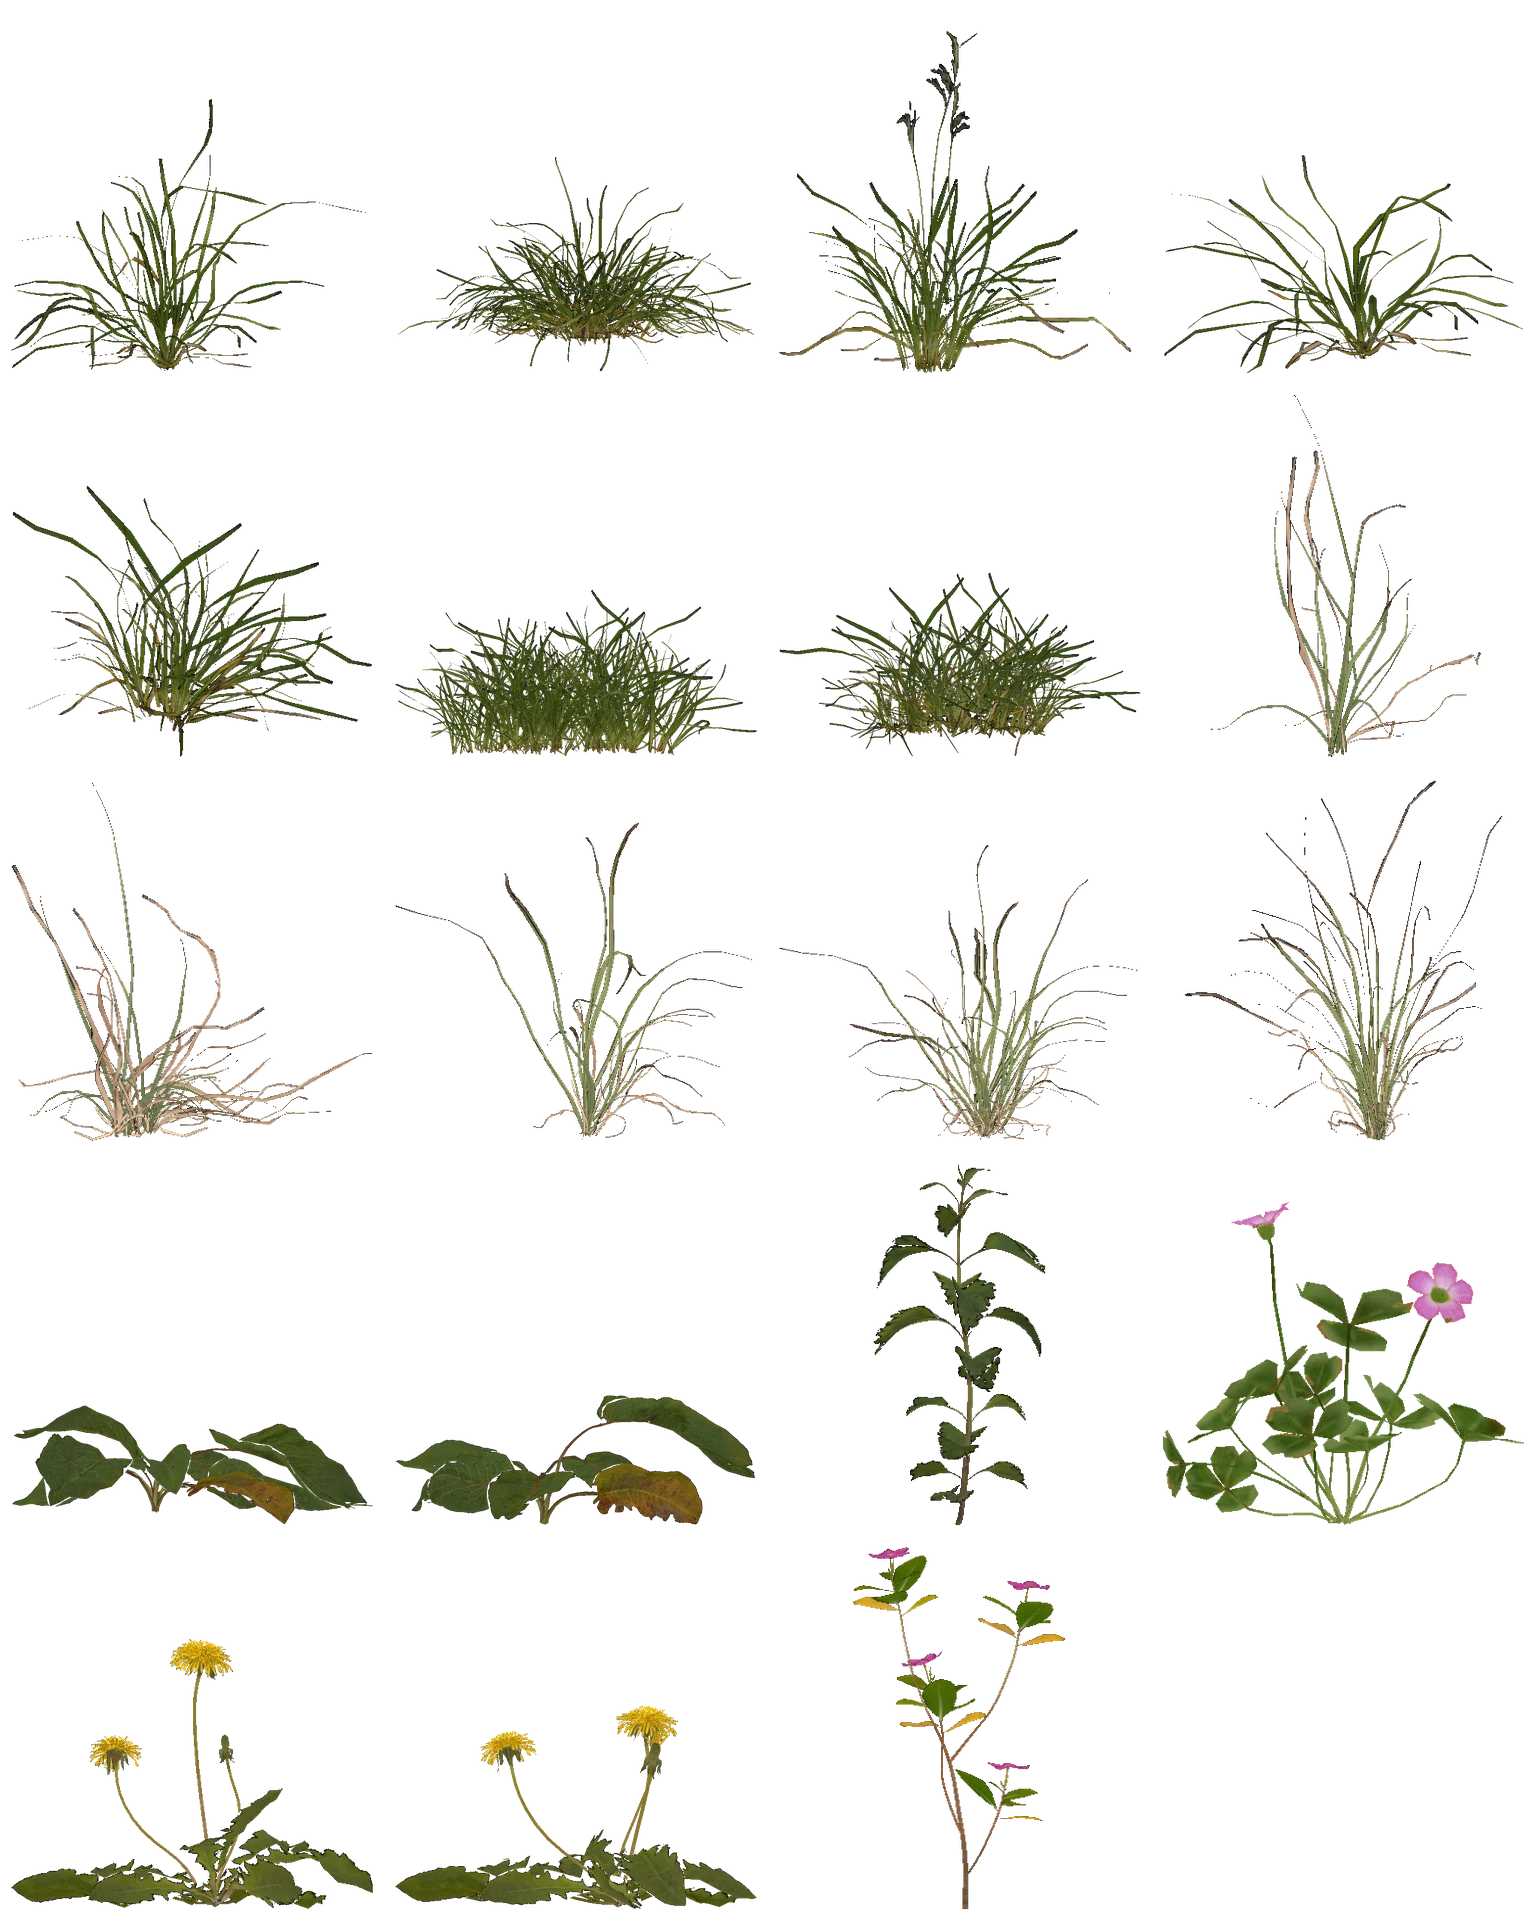
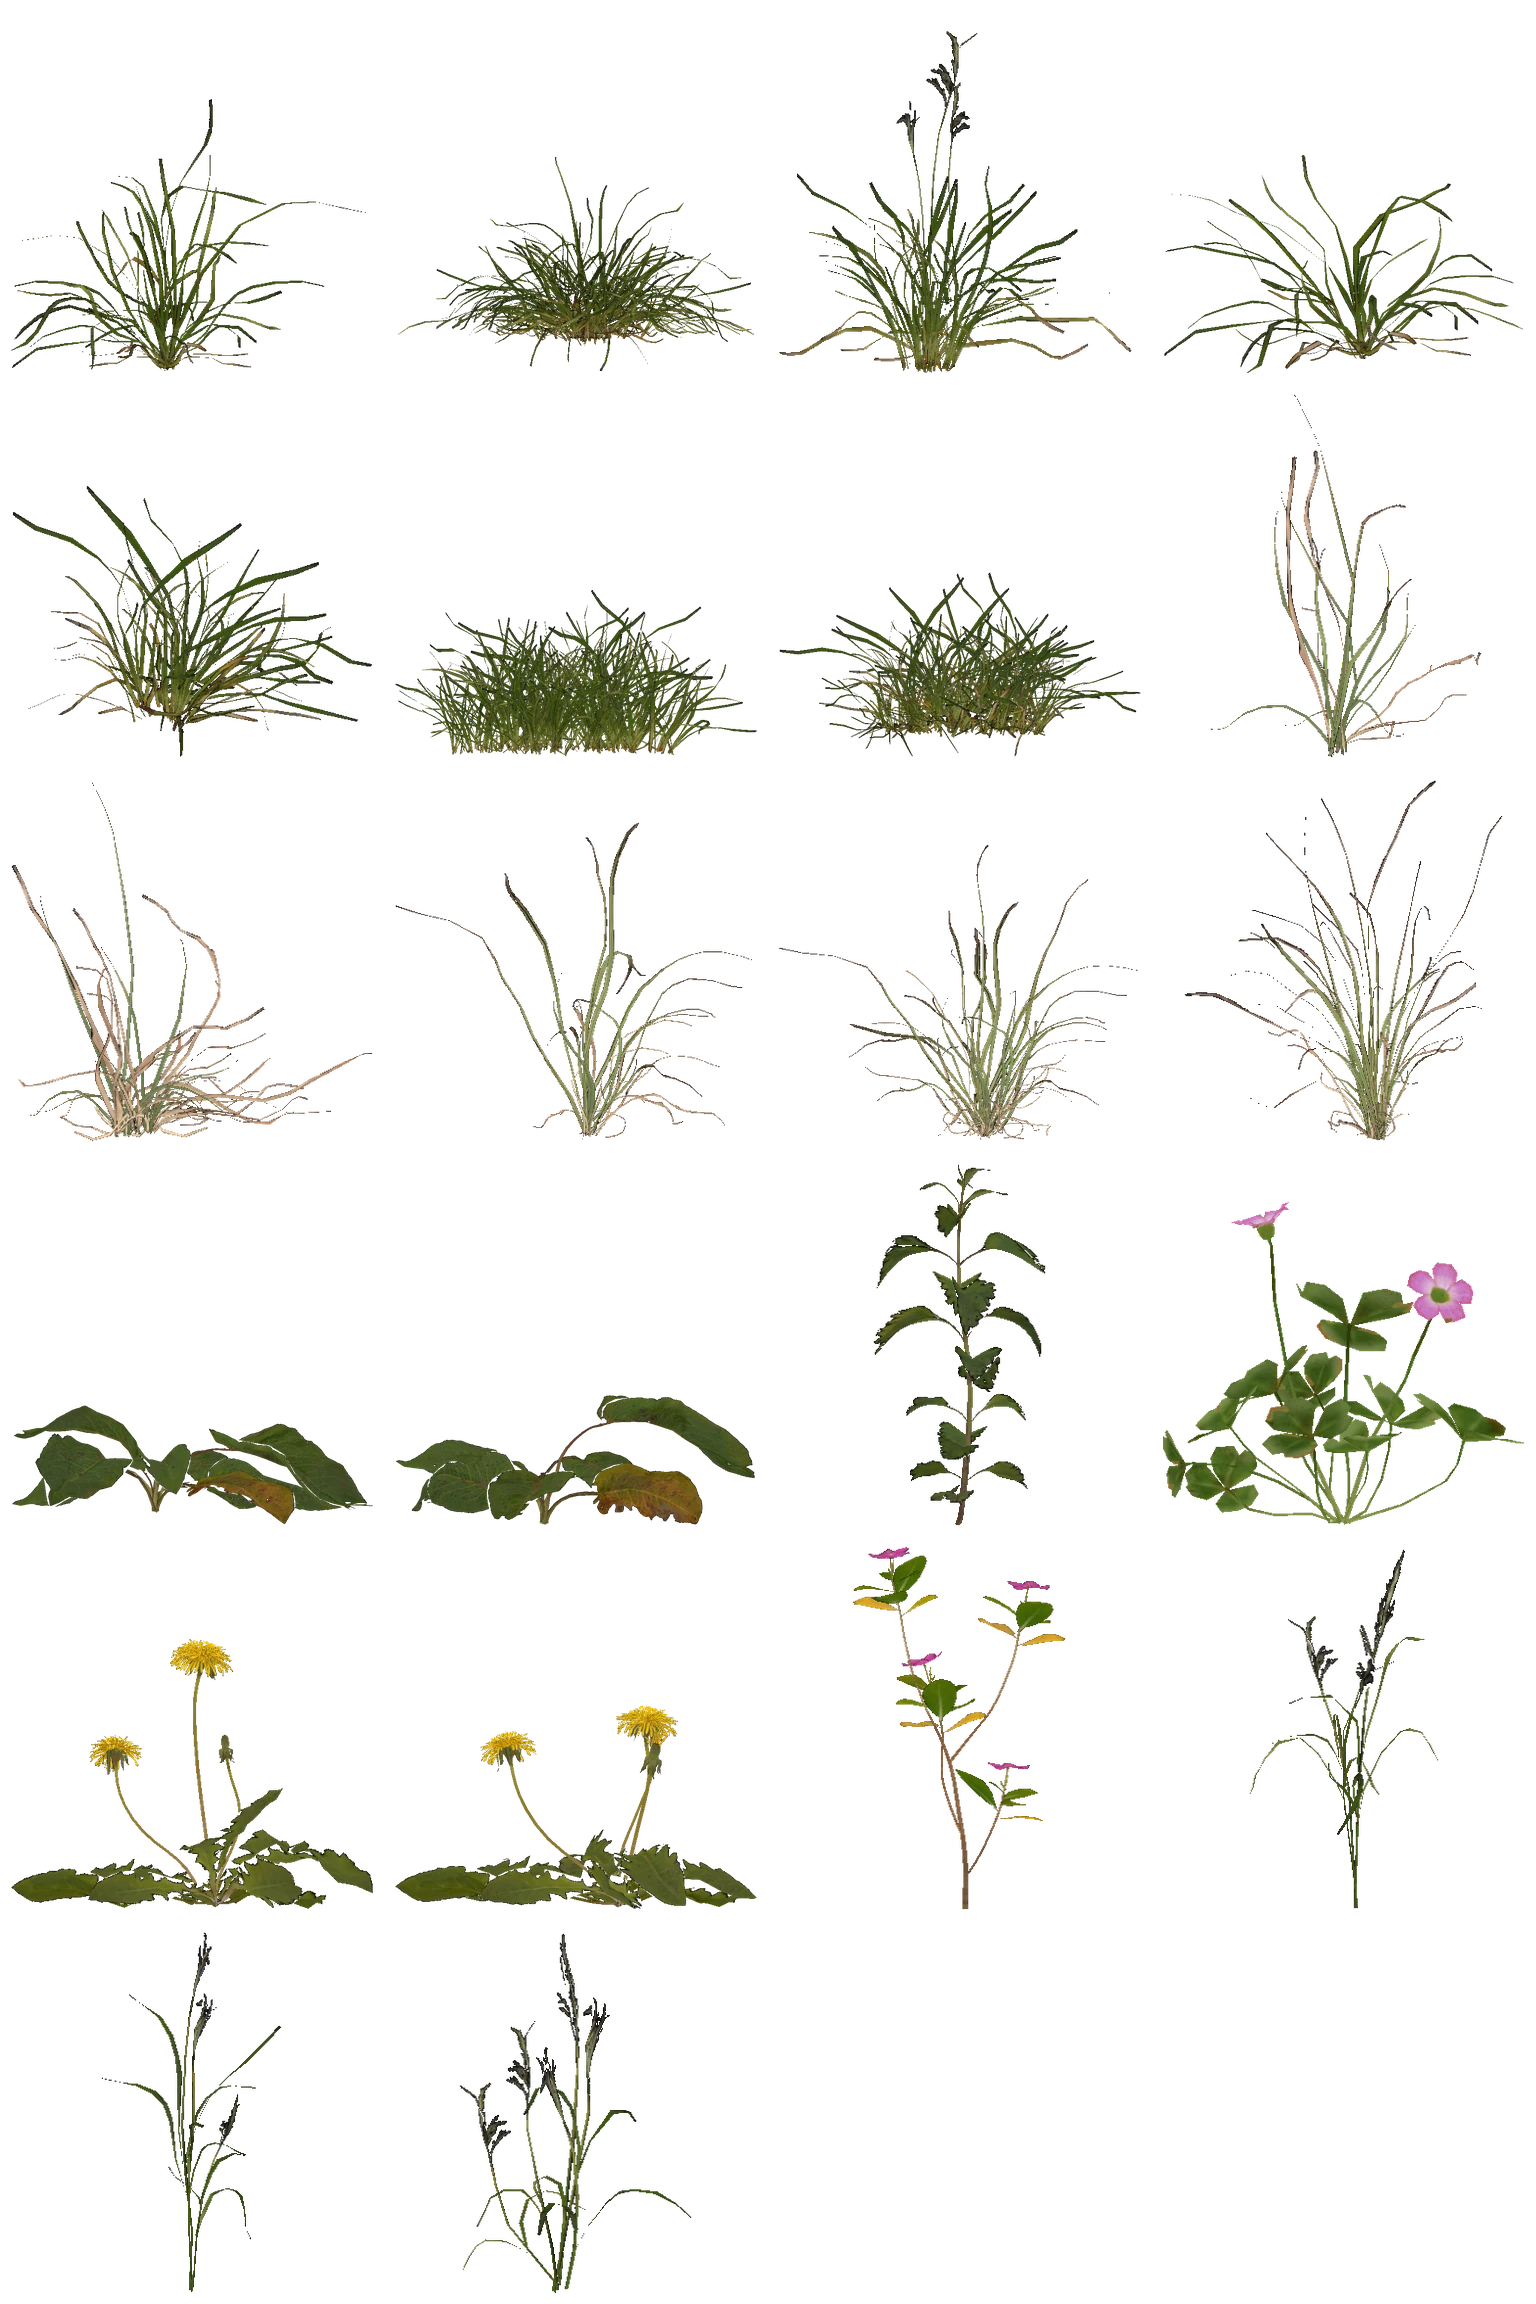
Gras-Atlas: drei Halme mit Samenständen (4 % der Zellen), 22 Kacheln (Zwischenstand, Ledger D277 nach Bildprüfung)
Claude-Session: https://claude.ai/code/session_019NVvDZ9khk56CaYgAKCb4K

diff --git a/src/world/grashorst.ts b/src/world/grashorst.ts
@@ -6,7 +6,7 @@
  * einzelner Büschel (0,12–0,36 m), als Blattkarten mit der Silhouette der Halme geschnitten. Roh sind sie
  * bis 25.000 Dreiecke je Büschel — zu schwer für 20–100 Büschel je m². Sie wurden deshalb einmal je Netz
  * seitlich mit orthografischer Kamera in ein Bild gerendert (`tools/grashorste.mjs`) und zu einem Atlas
- * gepackt: 19 Kacheln à 384² (7 grün, 5 trocken, 4 Kraut, 3 Blüten), Alpha aus der Silhouette, Farbe unter dem Rand nach aussen gefüllt (keine
+ * gepackt: 22 Kacheln à 384² (7 grün, 5 trocken, 4 Kraut, 3 Blüten, 3 Halme mit Samenständen), Alpha aus der Silhouette, Farbe unter dem Rand nach aussen gefüllt (keine
  * dunklen Säume). `public/material/gras-horste.json` hält je Kachel das Rechteck im Atlas und die Kantenlänge
  * der Kachel in Metern; Herkunft in `assets/HERKUNFT.md`.
  *
@@ -20,16 +20,17 @@ import { ladeRgba, leereKarte, setzeAlphaMips } from './alphamips.js';
 
 /** Alpha-Schwelle, die der Material-Alpha-Test benutzt (und die Mip-Kette erhält). */
 export const HORST_SCHWELLE = 0.3;
-/** Kacheln je Art im Atlas (Reihenfolge: grün, trocken, Kraut, Blume); wird beim Laden gegen die JSON geprüft. */
+/** Kacheln je Art im Atlas (Reihenfolge: grün, trocken, Kraut, Blume, Halm); wird beim Laden gegen die JSON geprüft. */
 export const HORST_GRUEN = 7;
 export const HORST_STROH = 5;
 export const HORST_KRAUT = 4;
 export const HORST_BLUME = 3;
-export const HORST_ZAHL = HORST_GRUEN + HORST_STROH + HORST_KRAUT + HORST_BLUME;
+export const HORST_HALM = 3;
+export const HORST_ZAHL = HORST_GRUEN + HORST_STROH + HORST_KRAUT + HORST_BLUME + HORST_HALM;
 const MIP_STUFEN = 6;
 
 export interface HorstKachel {
-  art: 'gruen' | 'stroh' | 'kraut' | 'blume';
+  art: 'gruen' | 'stroh' | 'kraut' | 'blume' | 'halm';
   /** Rechteck im Atlas in UV (x, y, Breite, Höhe), unten links. */
   rect: [number, number, number, number];
   /** Kantenlänge der quadratischen Kachel in Metern. */
@@ -55,8 +56,8 @@ export function ladeHorstAtlas(): Promise<HorstAtlas> {
       ladeRgba('/material/gras-horste.webp'),
     ]);
     const zahl = (a: string) => daten.kacheln.filter((k) => k.art === a).length;
-    if (zahl('gruen') !== HORST_GRUEN || zahl('stroh') !== HORST_STROH || zahl('kraut') !== HORST_KRAUT || zahl('blume') !== HORST_BLUME)
-      console.warn(`[grashorst] Atlas hat ${zahl('gruen')}/${zahl('stroh')}/${zahl('kraut')}/${zahl('blume')} Kacheln, erwartet ${HORST_GRUEN}/${HORST_STROH}/${HORST_KRAUT}/${HORST_BLUME}`);
+    if (zahl('gruen') !== HORST_GRUEN || zahl('stroh') !== HORST_STROH || zahl('kraut') !== HORST_KRAUT || zahl('blume') !== HORST_BLUME || zahl('halm') !== HORST_HALM)
+      console.warn(`[grashorst] Atlas hat ${zahl('gruen')}/${zahl('stroh')}/${zahl('kraut')}/${zahl('blume')}/${zahl('halm')} Kacheln, erwartet ${HORST_GRUEN}/${HORST_STROH}/${HORST_KRAUT}/${HORST_BLUME}/${HORST_HALM}`);
     const t = leereKarte();
     setzeAlphaMips(t, bild.data, bild.b, bild.h, { schwelle: HORST_SCHWELLE, stufen: MIP_STUFEN });
     t.colorSpace = THREE.SRGBColorSpace;

diff --git a/src/world/grasteppich.ts b/src/world/grasteppich.ts
@@ -20,7 +20,7 @@ import * as THREE from 'three';
 import { gesperrt } from './bauwerke.js';
 import { PALETTE } from './palette.js';
 import { GRAS_ECHT, GRAS_FEIN, GRAS_VIEL, PINSEL_AN } from './echt.js';
-import { ladeHorstAtlas, leereHorstTextur, HORST_BLUME, HORST_GRUEN, HORST_KRAUT, HORST_SCHWELLE, HORST_STROH, HORST_ZAHL } from './grashorst.js';
+import { ladeHorstAtlas, leereHorstTextur, HORST_BLUME, HORST_GRUEN, HORST_HALM, HORST_KRAUT, HORST_SCHWELLE, HORST_STROH, HORST_ZAHL } from './grashorst.js';
 import { PINSEL_BAND_GLSL } from './pinsel.js';
 import type { Biom } from './osm.js';
 import type { HoehenFeld } from './lod.js';
@@ -273,6 +273,7 @@ vec4 bilinear(sampler2D tex, vec2 welt) {
   int kachel = min(int(h6 * ${HORST_GRUEN}.0), ${HORST_GRUEN - 1});
   if (stroh > 0.5) kachel = ${HORST_GRUEN} + min(int(h6 * ${HORST_STROH}.0), ${HORST_STROH - 1});
   else if (kraut > 0.5) kachel = ${HORST_GRUEN + HORST_STROH} + min(int(h6 * ${HORST_KRAUT}.0), ${HORST_KRAUT - 1});
+  if (h7 >= 0.06 && h7 < 0.10) kachel = ${HORST_GRUEN + HORST_STROH + HORST_KRAUT + HORST_BLUME} + min(int(h6 * ${HORST_HALM}.0), ${HORST_HALM - 1});   // 4 %: Halme mit Samenständen
   if (h7 < 0.06) kachel = ${HORST_GRUEN + HORST_STROH + HORST_KRAUT} + min(int(h6 * ${HORST_BLUME}.0), ${HORST_BLUME - 1});
   bool strohKachel = kachel >= ${HORST_GRUEN} && kachel < ${HORST_GRUEN + HORST_STROH};
   bool blumeKachel = kachel >= ${HORST_GRUEN + HORST_STROH + HORST_KRAUT};` : ''}

diff --git a/tools/grashorste/pack.py b/tools/grashorste/pack.py
@@ -3,14 +3,14 @@ Grashorst-Atlas, Schritt 2 (D272): gewählte Kacheln aus `bake.mjs` zu `public/m
   python3 tools/grashorste/pack.py
 Alpha = nicht Magenta und nicht fast schwarz (Scan-Hintergrund); Farbe unter dem Rand nach aussen gefüllt
 (keine dunklen Säume); Kacheln 384² mit 4 px Rand, unten bündig (Wurzel), Mass je Kachel in Metern in
-`public/material/gras-horste.json`. Reihenfolge: 'gruen', 'stroh', 'kraut', 'blume' (`src/world/grashorst.ts`).
+`public/material/gras-horste.json`. Reihenfolge: 'gruen', 'stroh', 'kraut', 'blume', 'halm' (Halme mit Samenständen) (`src/world/grashorst.ts`).
 """
 import json
 import numpy as np
 from PIL import Image
 
 AUS = '.cache/grashorste/out'
-W, H, C, GUT = 1536, 1920, 384, 4
+W, H, C, GUT = 1536, 2304, 384, 4
 NUTZ = C - 2 * GUT
 WAHL = [('grass_medium_01', 0, 'gruen'), ('grass_medium_01', 1, 'gruen'), ('grass_medium_01', 2, 'gruen'),
         ('grass_medium_01', 6, 'gruen'), ('grass_medium_01', 7, 'gruen'), ('grass_medium_01', 9, 'gruen'),
@@ -19,7 +19,8 @@ WAHL = [('grass_medium_01', 0, 'gruen'), ('grass_medium_01', 1, 'gruen'), ('gras
         ('grass_medium_02', 3, 'stroh'), ('grass_medium_02', 4, 'stroh'),
         ('weed_plant_02', 0, 'kraut'), ('weed_plant_02', 1, 'kraut'), ('nettle_plant', 4, 'kraut'),
         ('shrub_sorrel_01', 4, 'kraut'),
-        ('dandelion_01', 0, 'blume'), ('dandelion_01', 1, 'blume'), ('periwinkle_plant', 0, 'blume')]
+        ('dandelion_01', 0, 'blume'), ('dandelion_01', 1, 'blume'), ('periwinkle_plant', 0, 'blume'),
+        ('grass_medium_01', 3, 'halm'), ('grass_medium_01', 4, 'halm'), ('grass_medium_01', 5, 'halm')]
 
 
 def fuelle(rgb, alpha, n=6):

diff --git a/assets/HERKUNFT.md b/assets/HERKUNFT.md
@@ -132,7 +132,7 @@ Herkunft trotzdem, damit niemand rätseln muss. Lizenz geprüft am 15.10.2026 au
 | wurzelstrang-farbe.webp, wurzelstrang-normal.webp, ../props/totholz_scan_wurzelstrang.glb | Wurzelstrang (D233), 213.939 → 2.400 Dreiecke | Jenelle van Heerden | CC0-1.0 | Poly Haven Modell `root_cluster_02` (Teil `_a`), Lizenz geprüft 17.10.2026 |
 | wurzel-einzel-farbe.webp, wurzel-einzel-normal.webp, ../props/totholz_scan_wurzel_einzel.glb | Einzelwurzel (D233), 61.027 → 1.799 Dreiecke | Jenelle van Heerden | CC0-1.0 | Poly Haven Modell `single_root`, Lizenz geprüft 17.10.2026 |
 | gras-farbe.webp, gras-normal.webp, ../props/gras_scan_a–f.glb | Grasbüschel (D234), Blattkarten mit Alpha, nicht reduziert, auf 0,18–0,85 m skaliert | Rico Cilliers | CC0-1.0 | Poly Haven Modell `grass_medium_02`, Lizenz geprüft 17.10.2026 |
-| gras-horste.webp, gras-horste.json | Foto-Büschel und -Kräuter für den Grasteppich (D272, `?gras=3`): 19 Kacheln à 384² (7 grün, 5 trocken, 4 Kraut, 3 Blüten), Alpha aus der Silhouette, Farbe unter dem Rand nach aussen gefüllt; je Kachel Rechteck und Kantenlänge in Metern in der JSON. Gerendert, nicht fotografiert: jedes Scan-Netz seitlich orthografisch (`tools/grashorste/bake.mjs`, `pack.py`) | Rob Tuytel (Foto), Rico Cilliers (Modell), Jenelle van Heerden und weitere laut Poly-Haven-Seite des jeweiligen Assets | CC0-1.0 | Poly Haven [`grass_medium_01`](https://polyhaven.com/a/grass_medium_01) (Kacheln 0, 1, 2, 6, 7, 9, 10), [`grass_medium_02`](https://polyhaven.com/a/grass_medium_02) (0–4), [`weed_plant_02`](https://polyhaven.com/a/weed_plant_02) (0, 1), [`nettle_plant`](https://polyhaven.com/a/nettle_plant) (4), [`shrub_sorrel_01`](https://polyhaven.com/a/shrub_sorrel_01) (4), [`dandelion_01`](https://polyhaven.com/a/dandelion_01) (0, 1), [`periwinkle_plant`](https://polyhaven.com/a/periwinkle_plant) (0); 2K-glTF, Lizenz geprüft 13.11.2026 (<https://polyhaven.com/license>, CC0). Autoren der vier neuen Assets: UNKLAR, nicht einzeln nachgesehen — CC0 verlangt keine Nennung |
+| gras-horste.webp, gras-horste.json | Foto-Büschel und -Kräuter für den Grasteppich (D272, `?gras=3`): 22 Kacheln à 384² (7 grün, 5 trocken, 4 Kraut, 3 Blüten, 3 Halme mit Samenständen), Alpha aus der Silhouette, Farbe unter dem Rand nach aussen gefüllt; je Kachel Rechteck und Kantenlänge in Metern in der JSON. Gerendert, nicht fotografiert: jedes Scan-Netz seitlich orthografisch (`tools/grashorste/bake.mjs`, `pack.py`) | Rob Tuytel (Foto), Rico Cilliers (Modell), Jenelle van Heerden und weitere laut Poly-Haven-Seite des jeweiligen Assets | CC0-1.0 | Poly Haven [`grass_medium_01`](https://polyhaven.com/a/grass_medium_01) (Kacheln 0, 1, 2, 3, 4, 5, 6, 7, 9, 10), [`grass_medium_02`](https://polyhaven.com/a/grass_medium_02) (0–4), [`weed_plant_02`](https://polyhaven.com/a/weed_plant_02) (0, 1), [`nettle_plant`](https://polyhaven.com/a/nettle_plant) (4), [`shrub_sorrel_01`](https://polyhaven.com/a/shrub_sorrel_01) (4), [`dandelion_01`](https://polyhaven.com/a/dandelion_01) (0, 1), [`periwinkle_plant`](https://polyhaven.com/a/periwinkle_plant) (0); 2K-glTF, Lizenz geprüft 13.11.2026 (<https://polyhaven.com/license>, CC0). Autoren der vier neuen Assets: UNKLAR, nicht einzeln nachgesehen — CC0 verlangt keine Nennung |
 | wurzel-a-farbe.webp, wurzel-a-normal.webp, wurzel-b-farbe.webp, wurzel-b-normal.webp, ../props/totholz_scan_wurzel.glb, ../props/totholz_scan_wurzel2.glb | Wurzelteller (D230), je ~81k → 2.400 Dreiecke | Rob Tuytel | CC0-1.0 | Poly Haven Modell `pine_roots`, Lizenz geprüft 17.10.2026 |
 
 Bis D222 lagen hier zwei Detailnormalen aus npm `@pmndrs/assets` 1.7.0 (`normals/0005`, `0015`,
